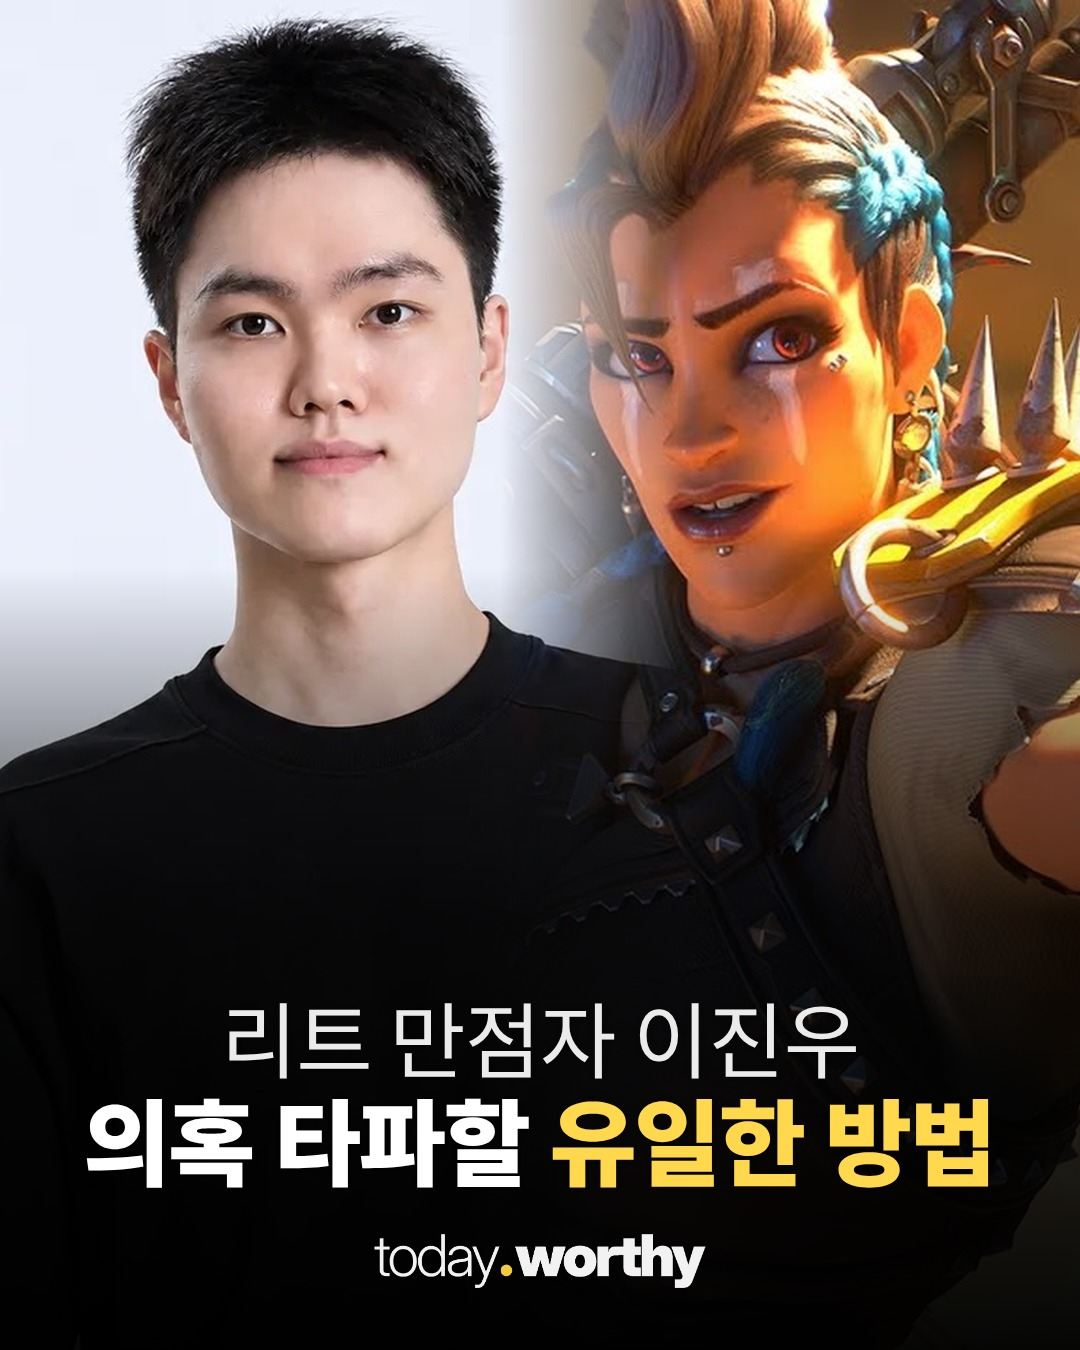
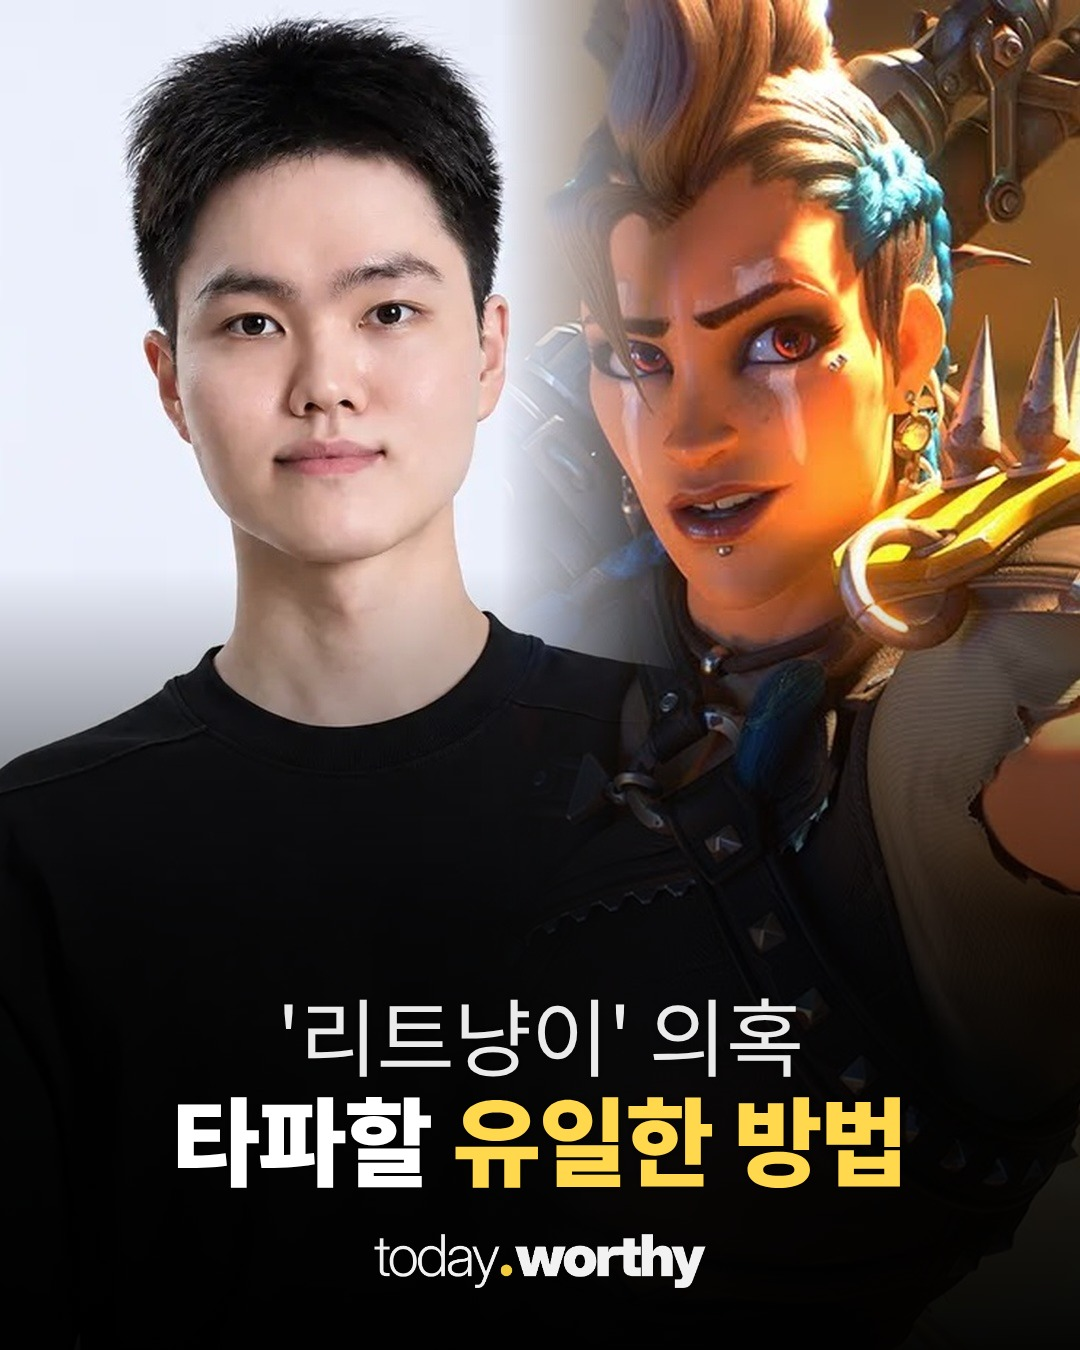
jinwoo-ow: 실명 빼고 '리트냥이' 의혹으로, 변호사 캡처 속 이름 가림
Claude-Session: https://claude.ai/code/session_01FGsw5QnWxFUsnopcB1Czie

Changed region(s): [[0.0611, 0.7467, 0.9167, 0.9022]]

diff --git a/media/20261117-jinwoo-ow/build_cards.py b/media/20261117-jinwoo-ow/build_cards.py
@@ -1,4 +1,4 @@
-"""20261117-jinwoo-ow: 리트 만점자 이진우, 공부법은 추상적인데 오버워치 해설은 '일타강사급' + 변호사 '풀이 대답' 조언.
+"""20261117-jinwoo-ow: 실명은 쓰지 않음(변호사 캡처 속 이름도 가림). 리트 만점자('리트냥이' 의혹), 공부법은 추상적인데 오버워치 해설은 '일타강사급' + 변호사 '풀이 대답' 조언.
 여자 행세·주작·스토킹 등 확인 안 된 주장은 다루지 않음. 댓글 계정명·프로필은 가림, 본인 계정 여부는 '추정'으로만 씀.
 표지 lay one(왼쪽 지금백지연 인터뷰 화면, 오른쪽 오버워치 2 정커퀸 공식 트레일러 화면) + 2~5장 검은 바탕 틀 + CTA.
 """
@@ -81,13 +81,13 @@ frame(("지금백지연 인터뷰에서 밝힌 만점 비결", "'생활 습관' 
       "온라인 반응: 공부법은 '추상적'", "영상: 유튜브 '지금백지연'·뉴시스(11.16)").save(O / "c02.jpg", quality=93)
 frame(("본인 계정으로 '추정'되는 유튜브 댓글", "정커퀸 운영법은 '디테일'"), contain("cap_ow_raw.jpg", bg=(18, 18, 18), blur_boxes=[(60, 50, 490, 145)], crop=(66, 40, 1940, 1035)),
       "상대 동선·스킬 타이밍·'개선점'까지", "오버워치 영상 댓글 캡처(계정명 가림) · 본인 계정인지는 확인 안 됨").save(O / "c03.jpg", quality=93)
-frame(("한 변호사가 스레드에 남긴 조언", "\"수능·LEET도 '풀이 대답'해야\""), contain("cap_lawyer.jpg"),
+frame(("한 변호사가 스레드에 남긴 조언", "\"수능·LEET도 '풀이 대답'해야\""), contain("cap_lawyer.jpg", blur_boxes=[(305, 368, 535, 462)]),
       "\"판단 과정을 '직접' 보여준다면\"", "시험을 둘러싼 의혹에 답하는 데 도움이 될 수 있다는 것").save(O / "c04.jpg", quality=93)
 frame(("지금까지 나온 의혹과 해명", "'목요일'에 풀이 공개"),
       panel([("MBC 보도", "언어이해 25~29번 답 '연달아 수정'"), ("처음 고른 답", "바로 앞 24~28번 정답과 '일치'"), ("본인 해명", "후반 집중력 저하로 '잔실수'"), ("예고", "19일(목) 수능 국어 '풀이 공개'")]),
       "부정행위는 '확인된 사실 아님'", "MBC(11.16)·TV리포트(11.17)").save(O / "c05.jpg", quality=93)
 print("ok")
-# 표지 배경(사용자 지정): 왼쪽 이진우 프로필 사진(사용자 제공), 오른쪽 정커퀸 — 가운데 경계는 페이드
+# 표지 배경(사용자 지정): 왼쪽 리트 만점자 프로필 사진(나무위키)(사용자 제공), 오른쪽 정커퀸 — 가운데 경계는 페이드
 lee = Image.open(O / "lee_photo.jpg"); s = H / lee.height; lee = lee.resize((round(lee.width * s), H), Image.LANCZOS)
 Lc = Image.new("RGB", (W, H), (235, 238, 242)); Lc.paste(lee, (round(330 - 480 * s), 0))
 jq = ImageOps.fit(Image.open(O / "jq_hd.jpg").convert("RGB").crop((0, 0, 560, 720)), (620, H), Image.LANCZOS, centering=(.4, .3))  # 사용자 제공 고화질(오버워치 2 애니메이션 단편 썸네일), 로고 글자 빼고 자름
